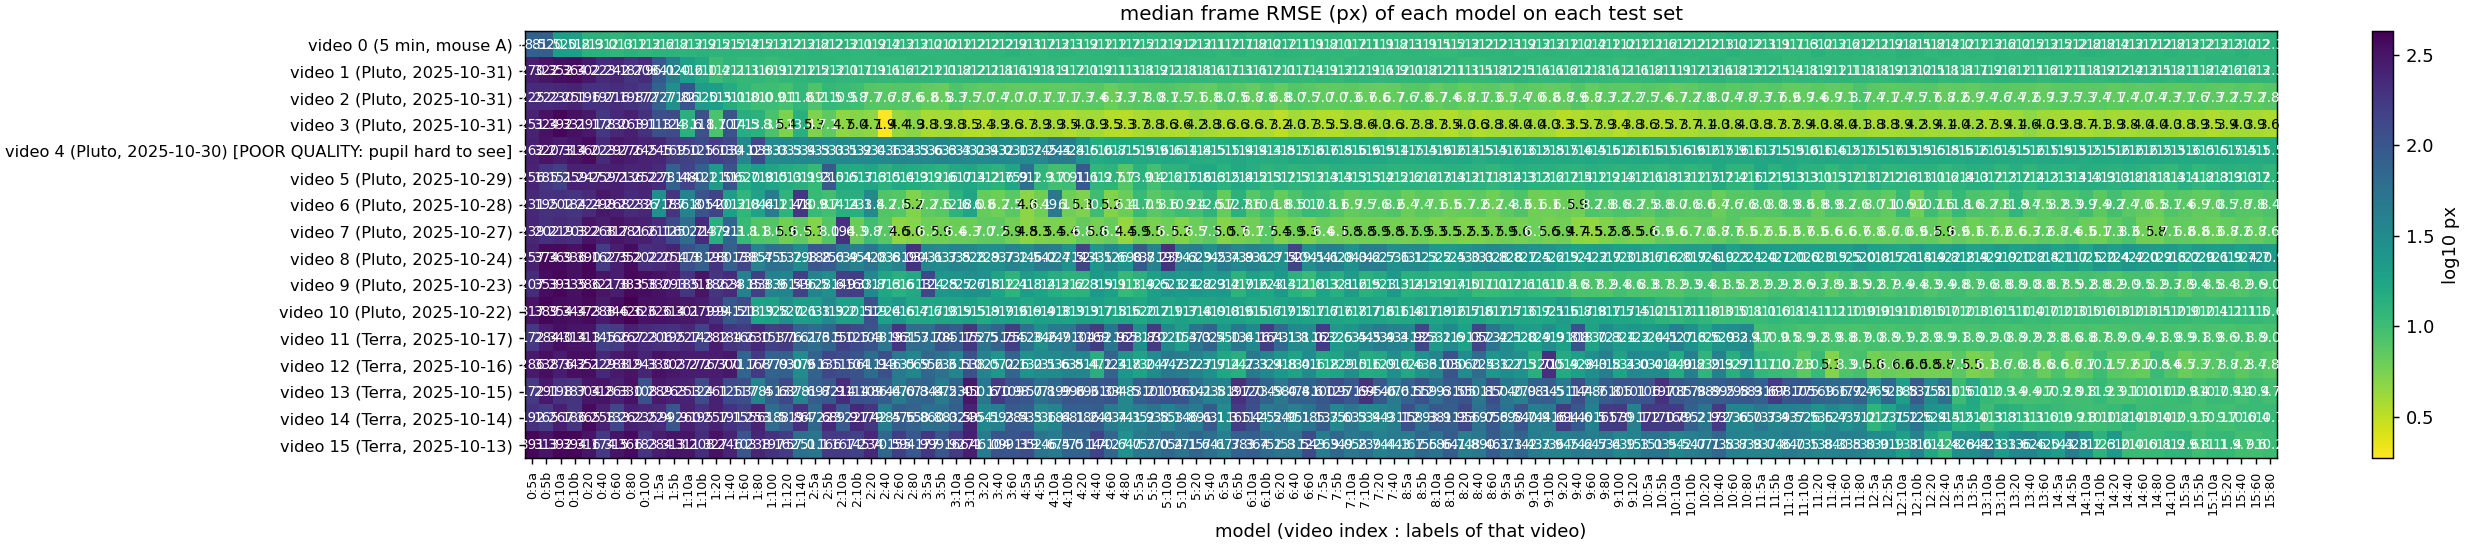
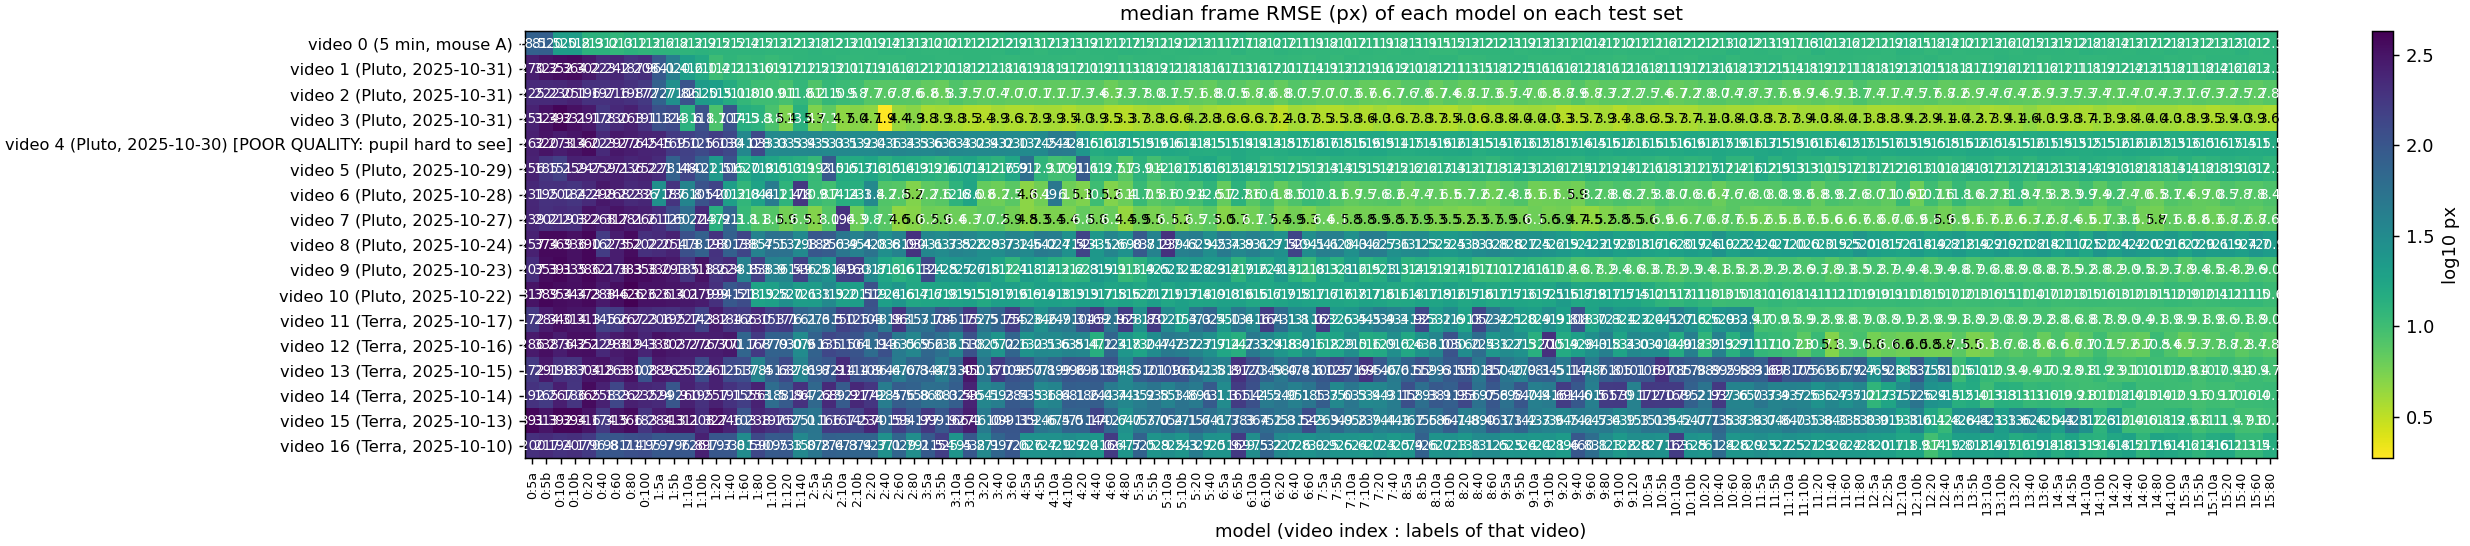
Video 16: test50 frozen and scored by every model; 0-label point 11.35 px (video-15 plateau model 1612); video README created

diff --git a/README.md b/README.md
@@ -29,7 +29,7 @@ per-frame predictions stay local; git carries code, documentation and audited ag
 | Finished | **video 13** (Terra, 2025-10-15, third video of mouse C): test50 / val20 / batch01 pre-labeled with the video-11 40-label model (1212) and corrected by the labeler (test50: 287 of 400 points moved), test set frozen; 0 labels (model 1212) = 69.13 px (56% of frames > 50 px: the model that fitted video 12 does not fit this day), 20 labels = 9.43 px, 40 labels = 9.44 px, 60 labels = 9.67 px (0% of frames > 50 px from 20 labels on): no step improves on 20 labels, the plateau rule fired at 60; **plateau at 20 labels, 9.43 px** (user decision 2026-10-06), tag `v0.9.15-video13-plateau`; batch01 (20 labels) carried, 600 labels go into video 14. Fewer-labels: 5 labels 10.46 / 16.03 px, 10 labels 11.24 / 10.29 px (first-batch size only, no jump selection afterwards; both above the 20-label 9.43 px). |
 | Finished | **video 14** (Terra, 2025-10-14, fourth video of mouse C): test50 / val20 / batch01 pre-labeled with the video-13 20-label model (1411) and corrected by the labeler (test50: 149 of 400 points moved), test set frozen; 0 labels (model 1411) = 13.33 px (16% of frames > 50 px), 20 labels = 10.83 px, 40 labels = 12.41 px, 60 labels = 10.30 px, 80 labels = 10.45 px, 100 labels = 10.24 px (2% of frames > 50 px from 20 labels on); 80 and 100 stay within 3% of 10.30, the plateau rule fired at 100; **plateau at 60 labels, 10.30 px** (user decision 2026-10-07), tag `v0.9.16-video14-plateau`; batches 1-3 (60 labels) carried, 660 labels go into video 15; batch 6 was selected but not labeled. Fewer-labels: 5 labels 10.93 / 10.22 px, 10 labels 9.82 / 10.06 px (first-batch size only, no jump selection afterwards; medians within 10% of the 20-label 10.83 px, subset 5b with 14% of frames > 50 px). |
 | Finished | **video 15** (Terra, 2025-10-13, fifth video of mouse C): frames extracted model-free; test50 pre-labeled with the video-14 20-label model (1511) before video 14's plateau was known (recorded as a deviation), val20 / batch01 with the plateau model 1513; 0 labels (model 1513) = 10.57 px, 20 labels = 11.42 px, 40 labels = 9.73 px, 60 labels = 9.61 px, 80 labels = 10.24 px (0-2% of frames > 50 px); 60 within 3% of 9.73 and 80 worse, the plateau rule fired at 80; **plateau at 40 labels, 9.73 px** (user decision 2026-10-08), tag `v0.9.17-video15-plateau`; batches 1-2 (40 labels) carried, 700 labels go into video 16; batch 5 selected but not labeled. Fewer-labels: 5 labels 12.55 / 9.82 px, 10 labels 11.09 / (10b pending) px. |
-| In progress | **video 16** (Terra, 2025-10-10): test50 / val20 / batch01 extracted on 2026-10-08 (model-free) and pre-labeled with the video-15 plateau model (1612, 40 labels); labeling not started yet. Training set of every step = 700 carried labels of videos 0-15 + this video's labels; shuffles 1711, 1712, ... |
+| In progress | **video 16** (Terra, 2025-10-10): test50 / val20 / batch01 extracted on 2026-10-08 (model-free) and pre-labeled with the video-15 plateau model (1612, 40 labels) and corrected by the labeler on 2026-10-08 (test50: 136 of 400 points moved), test set frozen; 0 labels (model 1612) = 11.35 px (p90 23.1, 0% of frames > 50 px, 76% of keypoints with confidence >= 0.6); step 1 (20 labels) queued. Training set of every step = 700 carried labels of videos 0-15 + this video's labels; shuffles 1711, 1712, ... |
 | Analysis (2026-10-04) | blink and pupil area on all 12 finished videos (`v2_new_pupil_top_video_scaling/results/blink_and_area/`): four-point area median error 6.6% (three-point 8.3%); closed eye best detected by the mean confidence of the four pupil points (27 of 28 closed frames, 4.1% of open frames flagged; the earlier rule flags 55.7%); area traces still contain tracking jumps not covered by the closure rule. Error and confidence per keypoint (`.../results/keypoint_confidence_error/`): pupil top is the least accurate point (10.9 px median) |
 | Next | Terra units 17-18, one recording day each, newest first |
 

diff --git a/v2_new_pupil_top_video_scaling/16_20251010_Terra_spont_1/results/README.md b/v2_new_pupil_top_video_scaling/16_20251010_Terra_spont_1/results/README.md
@@ -1,0 +1,17 @@
+# Video 16: 2025-10-10 Terra spont 1 (mouse C, 19.9 min; index 16) - labeling convention v2
+
+Label scaling under convention v2, continuing the v2 line after video 15 (plateau at 40 labels; its batches 1-2 are
+carried); the sixth video of mouse C (Terra). This video had no earlier human labels: test50, val20 and batch01 were
+extracted on 2026-10-08 with the same model-free rule as every video, pre-labeled with the video-15 plateau model (1612,
+40 labels) and corrected by the labeler on 2026-10-08 (test50: 136 of 400 points moved; val20: 55 of 160; batch01: 76 of
+160; no point left empty), then the test set was frozen. Training set of every step = the carried labels of the earlier
+videos (videos 0-3: 100 + 100 + 60 + 60; video 4 run 2 batches 1-2: 40; videos 5, 6, 8 batch 1: 20 each; video 9 batches
+1-4: 80; videos 10 and 11 batches 1-2: 40 each; video 13 batch 1: 20; video 14 batches 1-3: 60; video 15 batches 1-2: 40;
+videos 7 and 12 contributed none; 700 in total) + this video's labels; shuffles 1711, 1712, ...
+
+| labels of this video | median | p90 | frames > 50 px | keypoints conf >= 0.6 | pool frames flagged by the jump rule |
+|---|---|---|---|---|---|
+| 0 (video-15 40-label model 1612, applied unchanged) | 11.35 px | 23.1 | 0% | 76% | – |
+
+The other Terra models give 9.7-14.1 px on this test set (the video-12 20-label model 1311 is the best at 9.70 px, the
+video-15 60-label model 11.52, the video-14 plateau model 12.08; `../results/cross_video_matrix.csv`).

diff --git a/v2_new_pupil_top_video_scaling/results/README.md b/v2_new_pupil_top_video_scaling/results/README.md
@@ -28,7 +28,7 @@ snapshot with the best validation mAP after the first learning-rate drop (epochs
 | 13 `13_20251015_Terra_spont_1` | mouse C (Terra), 19.9 min, 2025-10-15 | 580 (video 12 carries none) | convention v2: 69.13 / 9.43 / 9.44 / 9.67 | **20 labels** (rule fired at 60) | 9.43 px |
 | 14 `14_20251014_Terra_spont_1` | mouse C (Terra), 19.9 min, 2025-10-14 | 600 (580 + 20 of video 13) | convention v2: 13.33 / 10.83 / 12.41 / 10.30 / 10.45 / 10.24 | **60 labels** (rule fired at 100) | 10.30 px |
 | 15 `15_20251013_Terra_spont_1` | mouse C (Terra), 19.9 min, 2025-10-13 | 660 (600 + 60 of video 14) | convention v2: 10.57 / 11.42 / 9.73 / 9.61 / 10.24 | **40 labels** (rule fired at 80) | 9.73 px |
-| 16 `16_20251010_Terra_spont_1` | mouse C (Terra), 19.9 min, 2025-10-10 | 700 (660 + 40 of video 15) | convention v2: pending | in progress | – |
+| 16 `16_20251010_Terra_spont_1` | mouse C (Terra), 19.9 min, 2025-10-10 | 700 (660 + 40 of video 15) | convention v2: 11.35 (0 labels) | in progress | – |
 
 `labels_to_plateau.png` / `labels_to_plateau.csv` (2026-09-30): the plateau point of every video in the sequence as one figure - labels needed (left) and the error at the plateau vs the 0-label error (right); `scripts/plot_labels_to_plateau.py`. The csv is the table above in machine-readable form and is updated when a video finishes.
 
